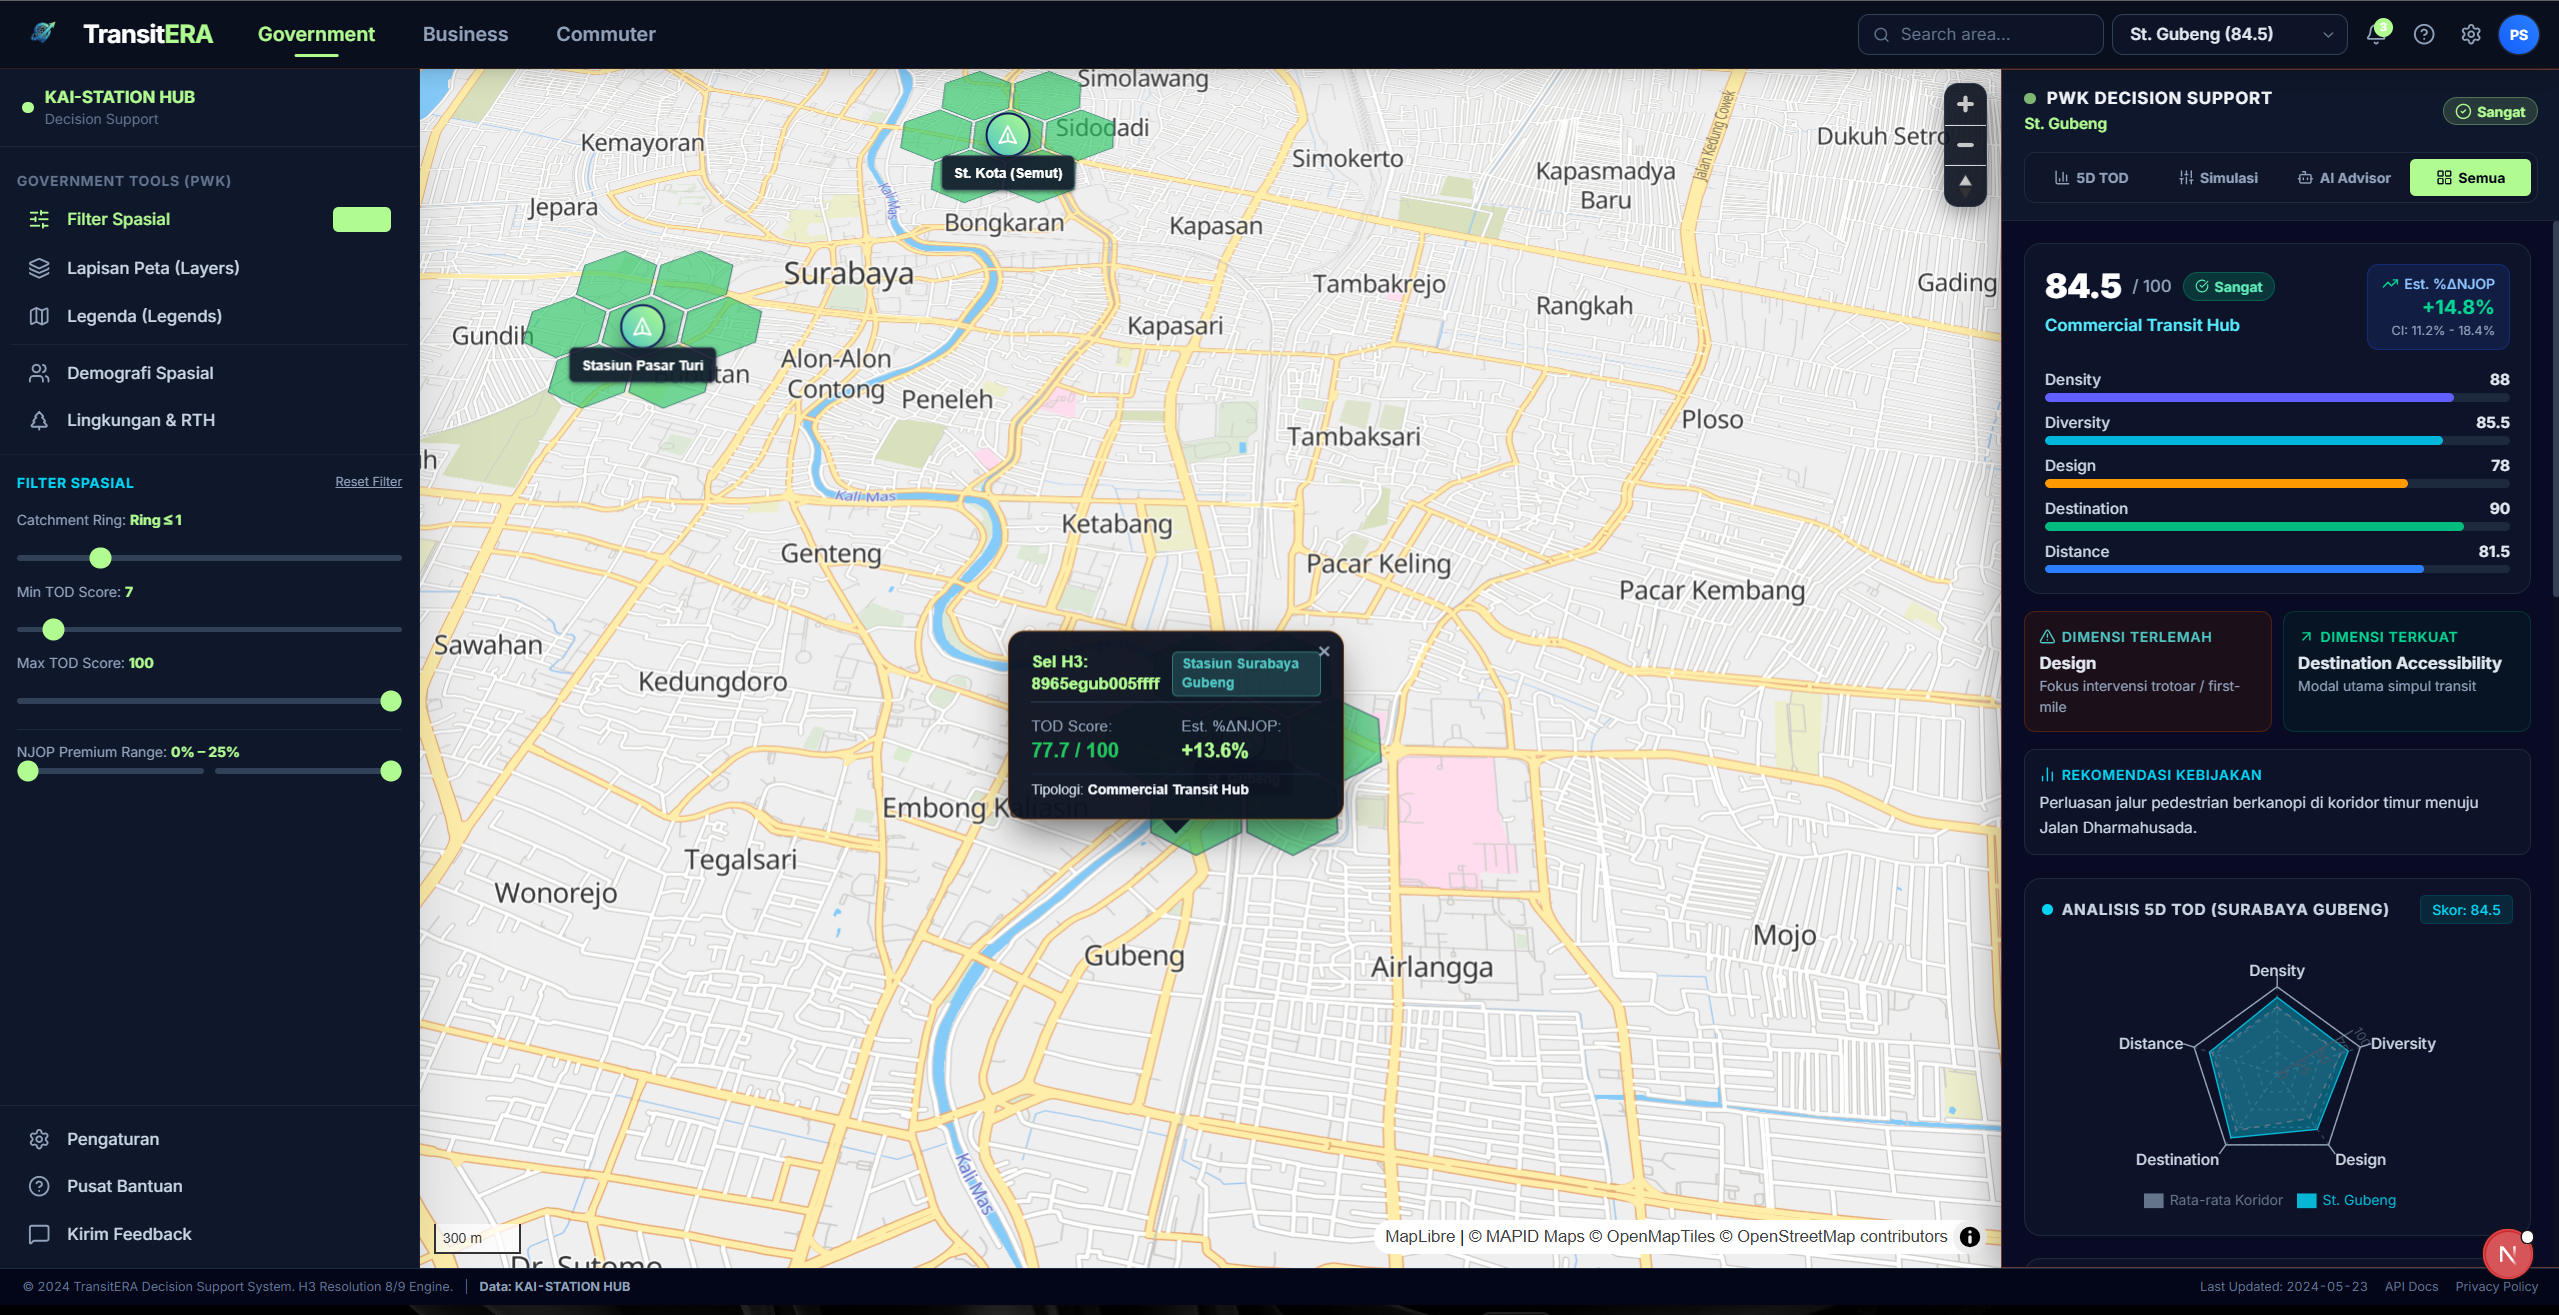
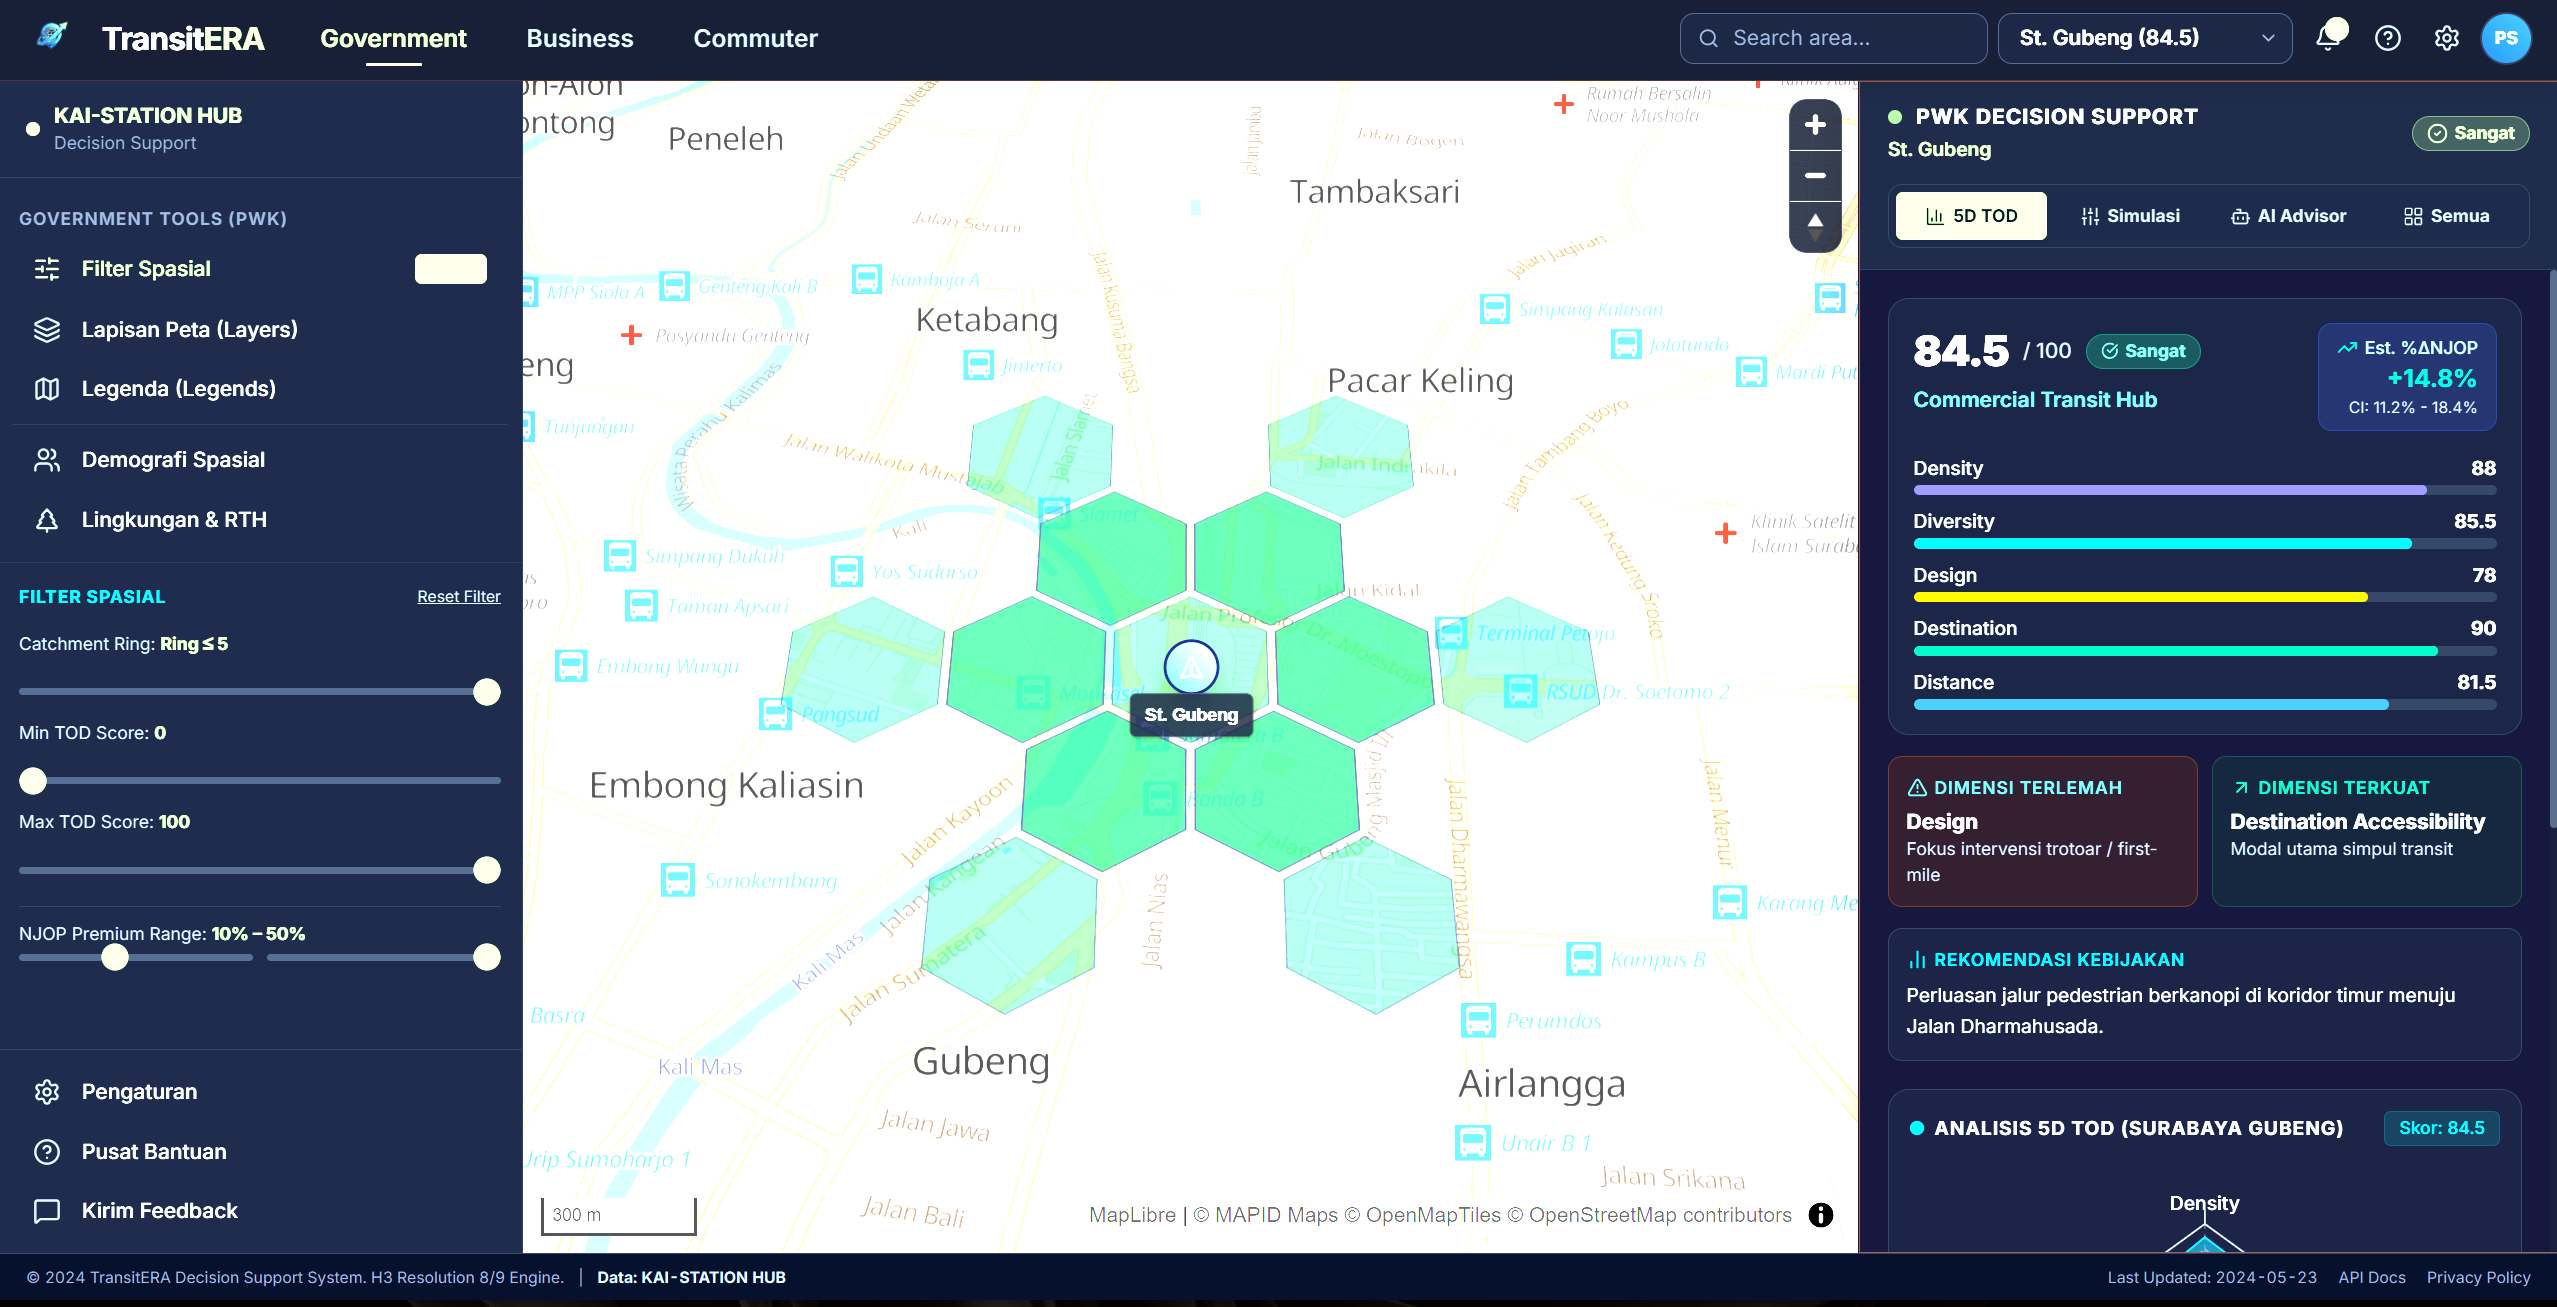
fix(ui): improve toggle switch contrast in settings modal

diff --git a/webdev/frontend/src/components/header/SettingsModal.tsx b/webdev/frontend/src/components/header/SettingsModal.tsx
@@ -92,7 +92,7 @@ function Toggle({ label, description, value, onChange }: {
         {description && <p className="text-[11px] text-slate-500 mt-0.5 leading-tight">{description}</p>}
       </div>
       <button onClick={() => onChange(!value)}
-        className={`relative flex-shrink-0 w-9 h-5 rounded-full transition-colors ${value ? 'bg-brand-lime' : 'bg-slate-700'}`}>
+        className={`relative flex-shrink-0 w-9 h-5 rounded-full transition-colors ${value ? 'bg-brand-teal' : 'bg-slate-700'}`}>
         <span className={`absolute top-0.5 w-4 h-4 bg-white rounded-full shadow transition-transform ${value ? 'translate-x-4' : 'translate-x-0.5'}`} />
       </button>
     </div>
